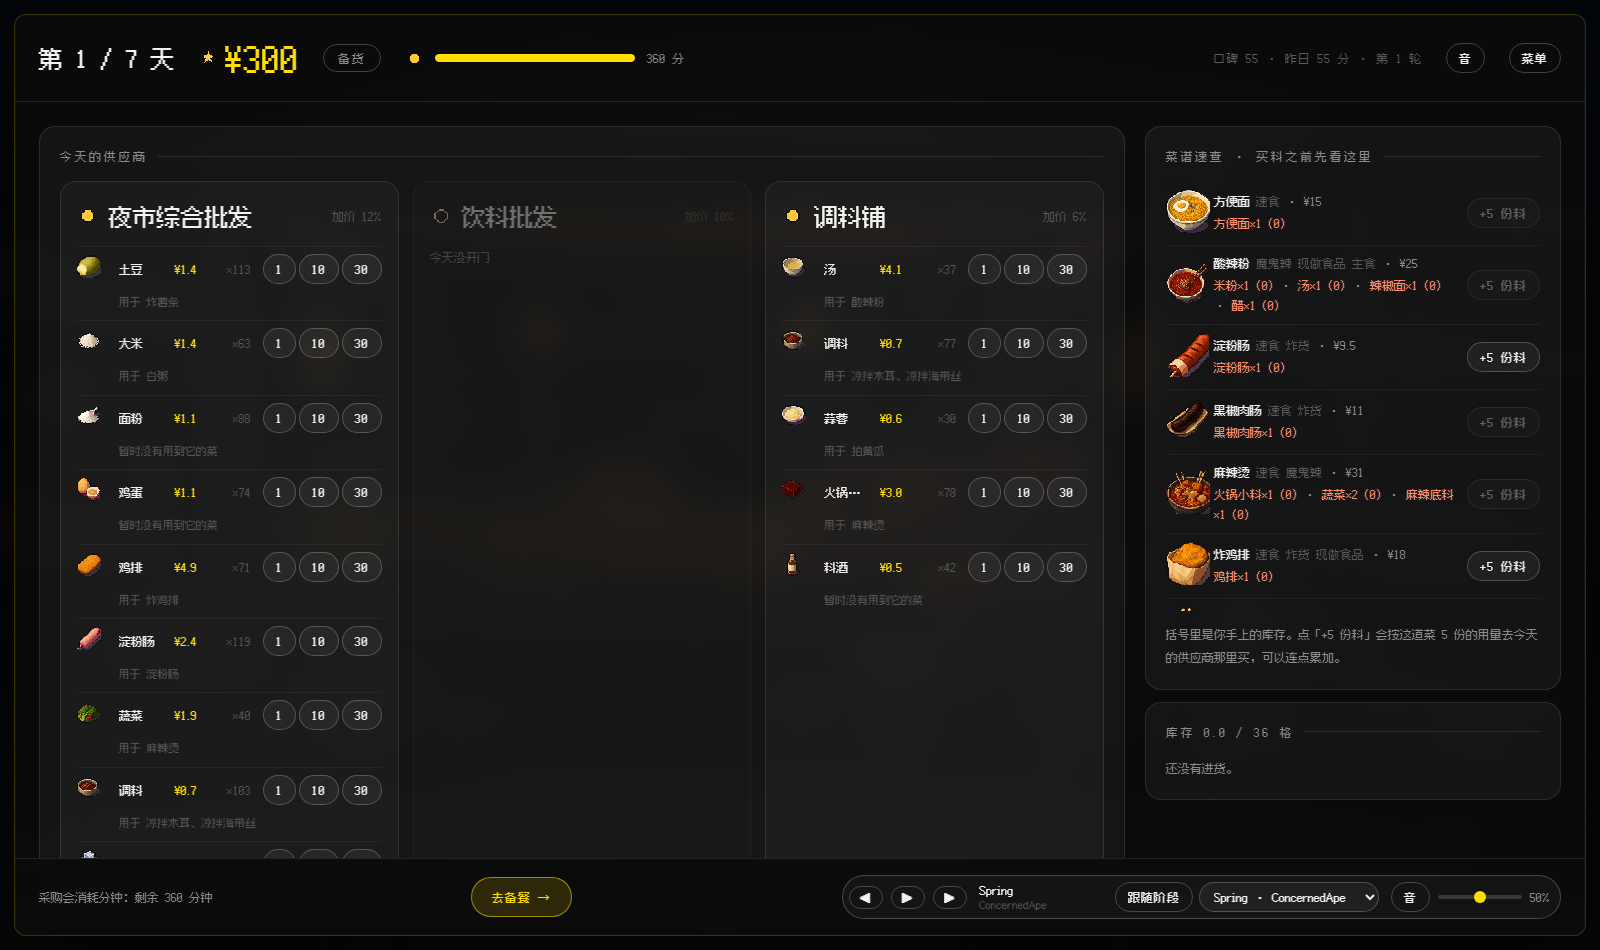
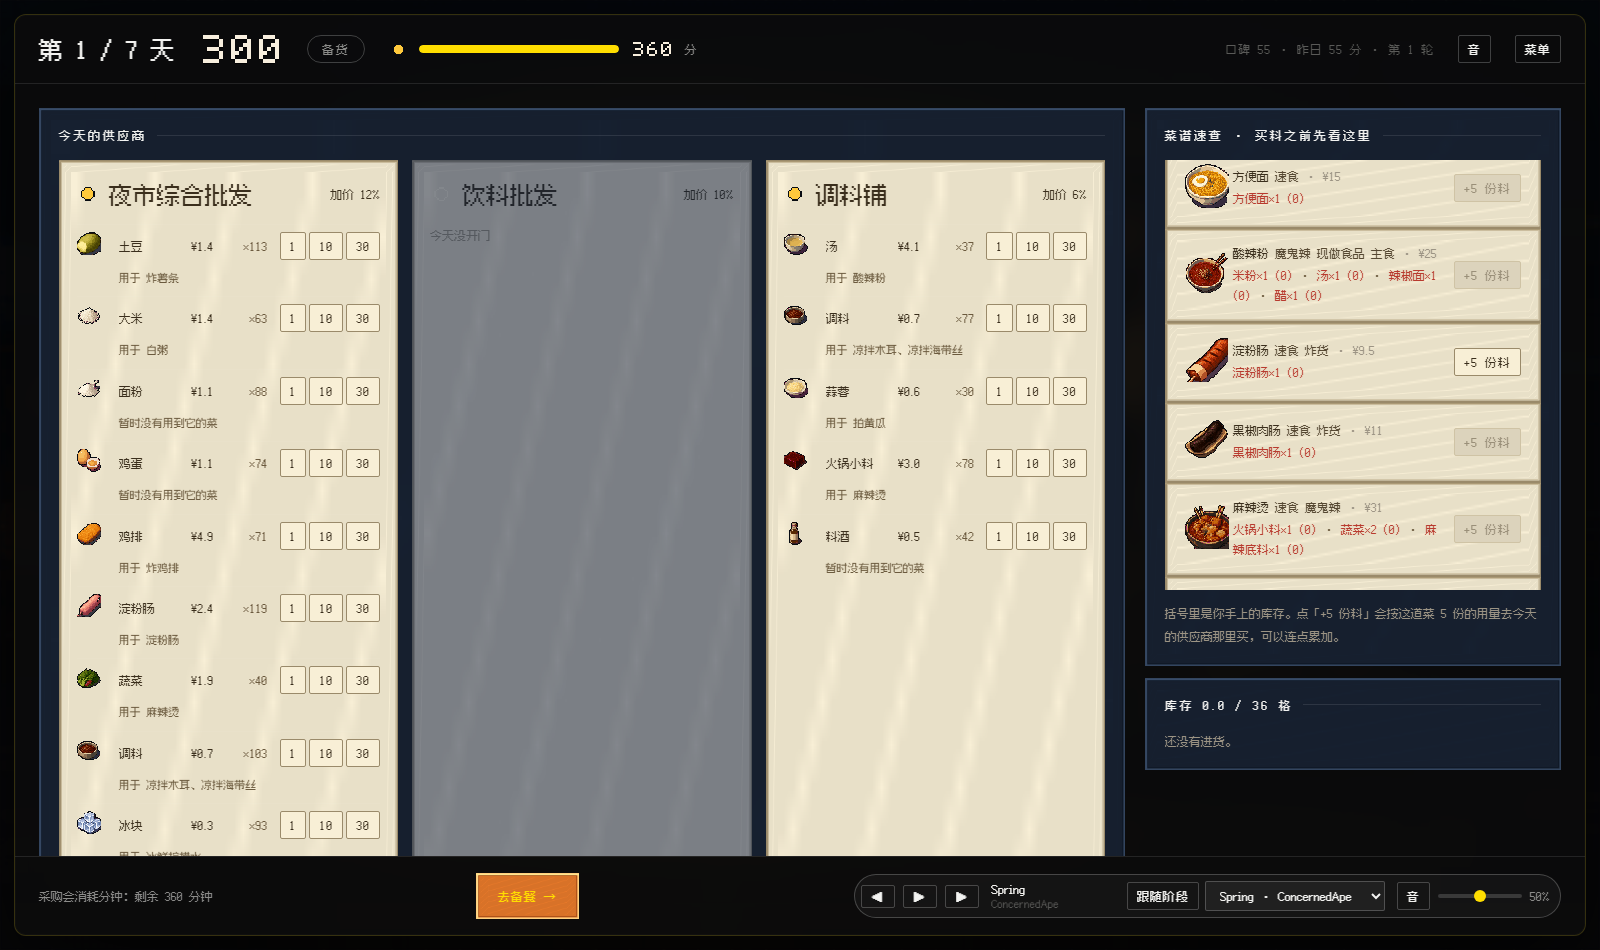
P0 收尾：修正数字字形格宽(16 格非 14 格)、负号与负现金染色、菜谱速查统一纸面卡片、属性标签压暗

diff --git a/src/digits.js b/src/digits.js
@@ -1,12 +1,14 @@
 // digits.js —— 位图数字渲染
-// 关键：图集真实尺寸从 atlas.json 读，不写死（v0.6 就是写死成 1024×1024 导致全崩）
+// 字形表实测：16 格 = 0 1 2 3 4 5 6 7 8 9 + - ¥ : / %
+// 格宽 = 图集宽 / 16（约 size×0.875），不是 size 本身
+// 图集真实像素尺寸从 atlas.json 取，绝不写死（v0.6 写死 1024×1024 导致全崩）
 import { ASSETS } from './sprites.js';
 
-const DIGIT_IDX = {
-  0: 0, 1: 1, 2: 2, 3: 3, 4: 4, 5: 5, 6: 6, 7: 7, 8: 8, 9: 9,
-  '+': 10, '-': 11, '/': 12, ':': 13,
-};
+const GLYPHS = '0123456789+-¥:/%';
+const IDX = {};
+for (let i = 0; i < GLYPHS.length; i++) IDX[GLYPHS[i]] = i;
 
+const COLS = 16;
 let CACHE = null;
 
 /** 从 atlas 里取 4 档数字的几何信息（只算一次） */
@@ -15,8 +17,7 @@ function geo() {
   const out = {};
   const frames = (ASSETS && ASSETS.frames) || {};
   for (const size of [16, 24, 32, 48]) {
-    const key = 'ui/ui_digits_' + size + '.png';
-    const f = frames[key];
+    const f = frames['ui/ui_digits_' + size + '.png'];
     if (!f) continue;
     out[size] = {
       png: f.png,
@@ -24,8 +25,7 @@ function geo() {
       y: f.y,
       w: f.w,
       h: f.h,
-      cell: size,                       // 每格就是 size×size
-      cols: Math.round(f.w / size),     // 一般是 14
+      cell: f.w / COLS,   // 实测 14 / 21 / 28 / 42
     };
   }
   CACHE = out;
@@ -39,10 +39,15 @@ function pngSize(png) {
   return { w: im.width, h: im.height };
 }
 
+/** 去掉千分位逗号，但保留 ¥ + - : / % 这些图集里有的字符 */
+function clean(value) {
+  return String(value).replace(/,/g, '');
+}
+
 /**
  * 渲染一串位图数字
- * @param {string|number} value 值
- * @param {object} opt {size:16|24|32|48, scale:number, prefix:'', suffix:''}
+ * @param {string|number} value
+ * @param {object} opt {size:16|24|32|48, scale:number, prefix:string, suffix:string}
  */
 export function digits(value, opt) {
   const o = opt || {};
@@ -54,19 +59,16 @@ export function digits(value, opt) {
   const ps = pngSize(a.png);
   if (!ps) return '<span class="dg-fallback">' + value + '</span>';
 
-  const text = String(value);
+  const text = clean(value);
+  const cw = a.cell * scale;
   const parts = [];
   for (const ch of text) {
-    if (!(ch in DIGIT_IDX)) {
-      // 逗号、货币符号这类不支持的字符，直接跳过（不显示乱格）
-      continue;
-    }
-    const idx = DIGIT_IDX[ch];
-    const bgX = -(a.x + idx * a.cell) * scale;
+    if (!(ch in IDX)) continue;          // 图集里没有的字符直接跳过
+    const bgX = -(a.x + IDX[ch] * a.cell) * scale;
     const bgY = -a.y * scale;
     parts.push(
       '<span class="dg" style="' +
-      'width:' + a.cell * scale + 'px;height:' + a.h * scale + 'px;' +
+      'width:' + cw + 'px;height:' + a.h * scale + 'px;' +
       'background-image:url(' + a.png + ');' +
       'background-position:' + bgX + 'px ' + bgY + 'px;' +
       'background-size:' + (ps.w * scale) + 'px ' + (ps.h * scale) + 'px;' +
@@ -78,7 +80,7 @@ export function digits(value, opt) {
   return '<span class="dgrow">' + pre + parts.join('') + suf + '</span>';
 }
 
-/** 千分位 */
+/** 千分位（会插入逗号，digits() 内部会去掉）。保留负号：图集里有 '-' 字形 */
 export function num(n) {
-  return Math.round(Math.abs(n)).toLocaleString('en-US');
+  return Math.round(n).toLocaleString('en-US');
 }

diff --git a/styles-unify.css b/styles-unify.css
@@ -1,0 +1,80 @@
+/* ============================================================
+   P0-3b  把「菜谱速查」的条目也统一成纸面卡片
+   之前 .sup / .food 是纸面，.dish-row 却是透明的深底白字，
+   同一屏里两种材质，视觉语言不统一
+   ============================================================ */
+
+.dish-row {
+  border: 12px solid transparent;
+  border-image: url(assets/ui9/ui_panel_light_normal_9slice.png) 16 fill stretch;
+  border-radius: 0;
+  background: none;
+  padding: 4px 8px;
+  color: var(--ink-on-paper);
+}
+
+.dish-row .dish-name {
+  color: var(--ink-on-paper);
+}
+.dish-row .dish-recipe {
+  color: var(--ink-soft);
+}
+.dish-row .muted {
+  color: var(--ink-dim);
+}
+.dish-row .dish-tags {
+  color: var(--ink-soft);
+  filter: brightness(0.8);
+}
+.dish-row .lack {
+  color: var(--alert);
+}
+
+/* 纸面上的小按钮统一走描边风格 */
+.dish-row button.small,
+.food button.small,
+.sup button.small {
+  background: var(--paper-hi);
+  border: 1px solid var(--paper-edge);
+  border-image: none;
+  border-radius: 2px;
+  color: var(--ink-on-paper);
+  padding: 4px 9px;
+}
+.dish-row button.small:hover,
+.food button.small:hover,
+.sup button.small:hover {
+  background: #FFE9B8;
+  border-color: var(--burnt);
+  filter: none;
+}
+.dish-row button.small:disabled {
+  background: #DCD3BC;
+  border-color: var(--paper-lo);
+  color: #9A8F79;
+  opacity: 1;
+  filter: none;
+}
+
+/* 纸面卡片内的数字输入 */
+.food input[type='number'] {
+  background: var(--paper-hi);
+  color: var(--ink-on-paper);
+  border: 1px solid var(--paper-edge);
+  border-radius: 2px;
+}
+
+/* 未营业的供应商：整体压低饱和，但仍能看出是纸面 */
+.sup.closed {
+  filter: grayscale(0.9) brightness(0.92);
+  opacity: 0.55;
+}
+
+/* 面板标题在深色外框上偏暖金，和纸面卡片区分 */
+.panel-title {
+  color: #C9B98F;
+}
+.panel .hint,
+.panel .muted {
+  color: #9C9484;
+}

diff --git a/src/ui.js b/src/ui.js
@@ -2,7 +2,7 @@
 import { icon } from './sprites.js';
 import { formatTime } from './save.js';
 import * as Audio from './audio.js';
-import { digits, num } from './digits.js';
+import { digits, num } from './digits.js?v=3';
 
 const $ = (sel, root = document) => root.querySelector(sel);
 const el = (id) => document.getElementById(id);

diff --git a/index.html b/index.html
@@ -10,6 +10,7 @@
 <link rel="stylesheet" href="styles-p0.css" />
 <link rel="stylesheet" href="styles-9slice.css" />
 <link rel="stylesheet" href="styles-palette.css" />
+<link rel="stylesheet" href="styles-unify.css" />
 </head>
 <body>
 <div class="dot" aria-hidden="true"></div>
